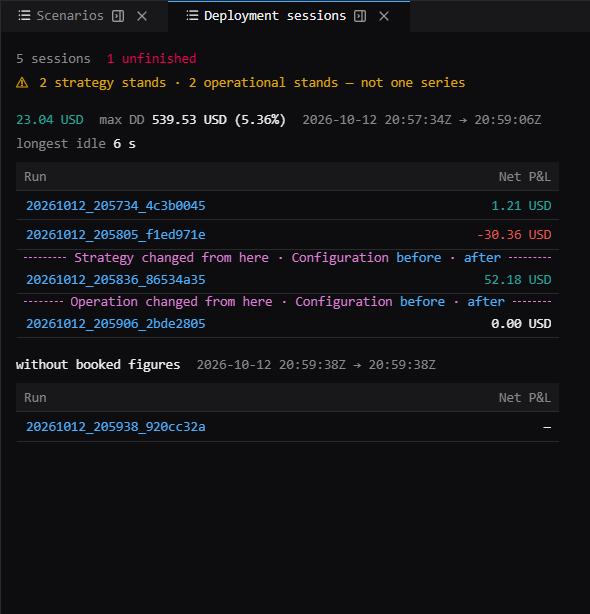
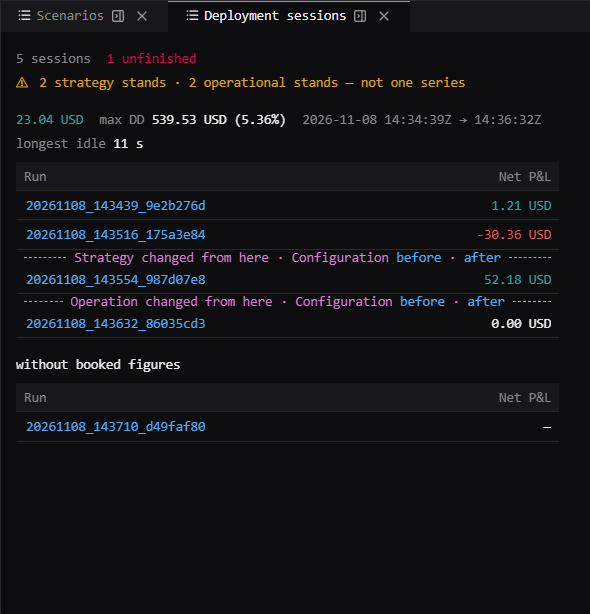
Take the README's deployment picture from the re-pinned deployment
The deployment the pictures showed is a production FiniexTestingIDE
releases once the fixtures have moved; the picture now shows its
successor, of the same shape, its last session without booked figures.
Retaken against the live API with the others, nothing private on them.

diff --git a/e2e/readme_pictures.spec.ts b/e2e/readme_pictures.spec.ts
@@ -28,9 +28,9 @@ const OUT = '/app/docs/images'
 const RUN = '20261007_145935_5f9186f8'
 const UNIT = 'EURUSD_blocks_09'
 const SESSION = '20261022_123550_0bfde90e'
-const DEPLOYMENT = 'deploy_20261012_205734'
+const DEPLOYMENT = 'deploy_20261108_143439_214aa9fc'
 // a session of that deployment, so the panels beside it show the bot's run
-const DEPLOYMENT_SESSION = '20261012_205836_86534a35'
+const DEPLOYMENT_SESSION = '20261108_143554_987d07e8'
 const SWEEP = 'sweep_20261031_100348_42d8ea0b'
 // the arrangement the pictures are taken in, stored with the size it was arranged at
 const ARRANGEMENT = JSON.parse(readFileSync(join(dirname(fileURLToPath(import.meta.url)), 'readme_arrangement.json'), 'utf-8'))
